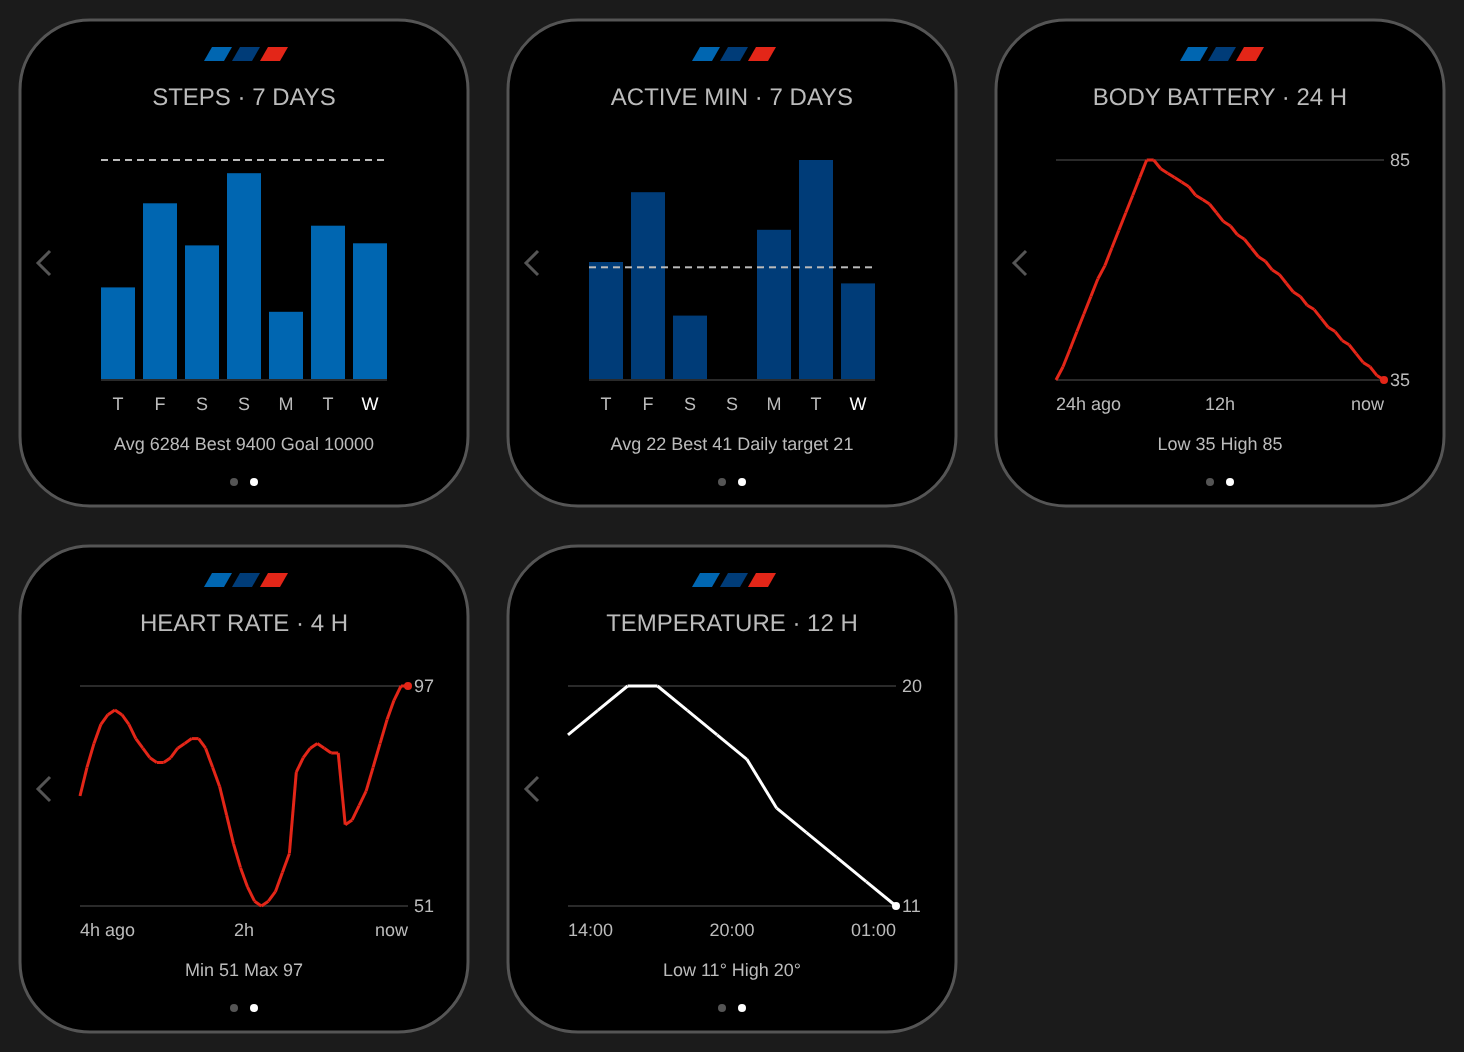
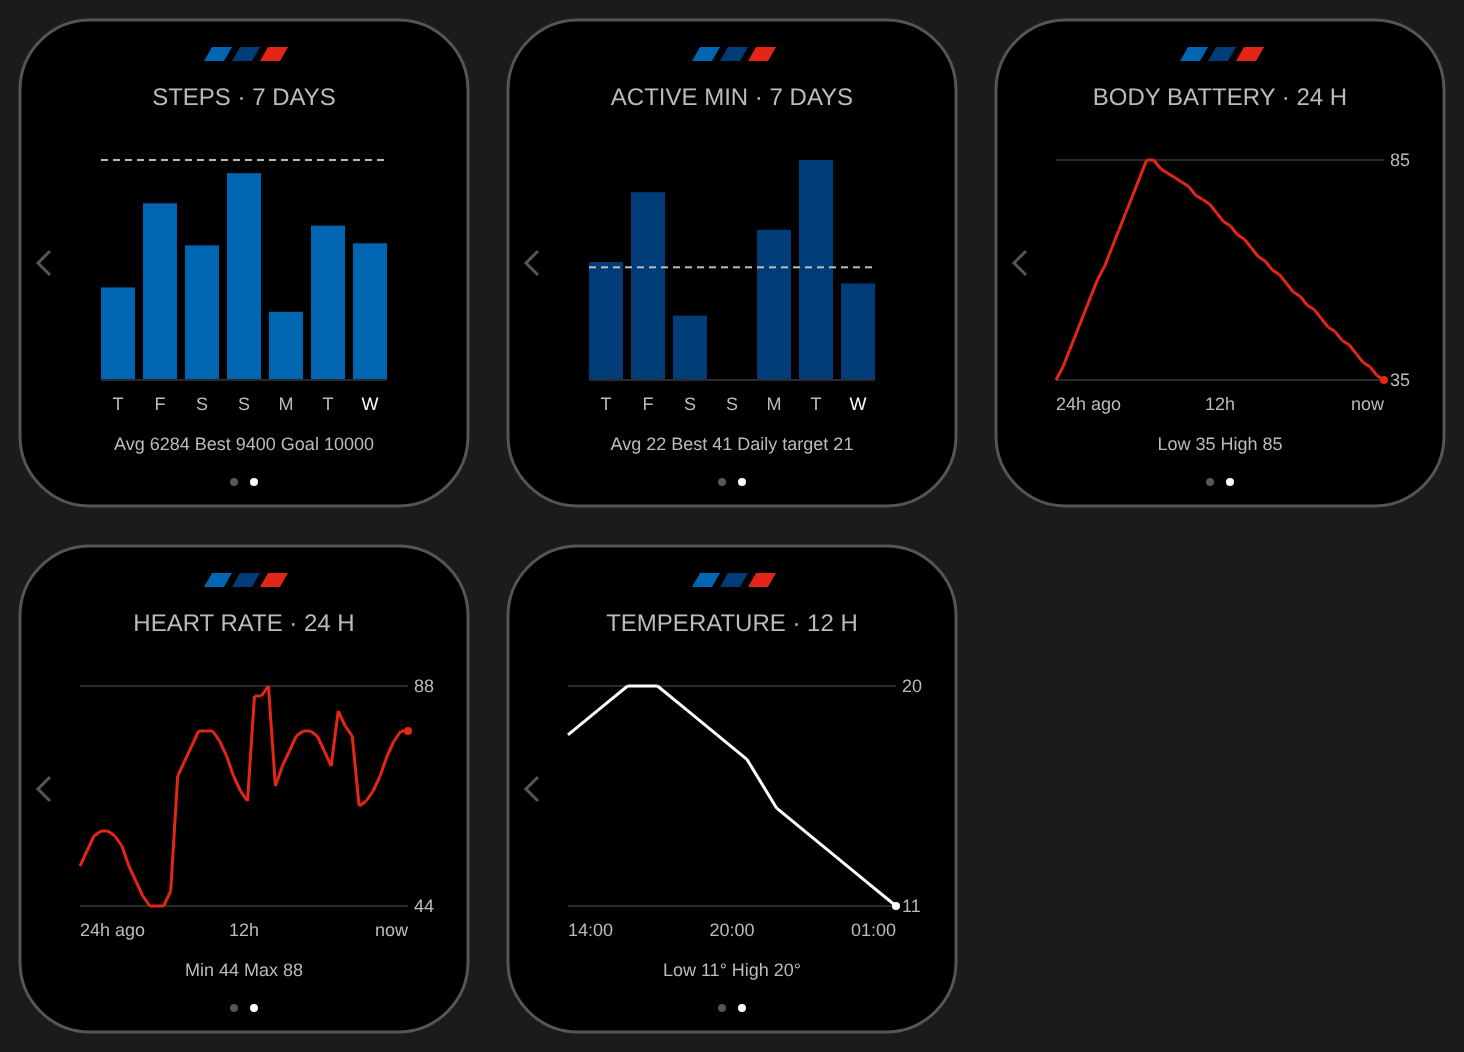
Heart rate graph over 24 hours; robust step and active minutes history
Read heart rate from SensorHistory.getHeartRateHistory over 24 hours, bucketed
and averaged like body battery. Skip a getHistory() entry that starts today (the
docs say it is newest first with at most 7 entries) and take today from getInfo().
Confirmed against the Connect IQ API reference that ActivityMonitor.History has
activeMinutes. Update the graph mock-up and README to match.

Claude-Session: https://claude.ai/code/session_01CEiR5mX4CwQUtKoZKTxSUA

diff --git a/tools/wireframes.py b/tools/wireframes.py
@@ -403,7 +403,9 @@ def graphs():
     active = [22, 35, 12, 0, 28, 41, 18]
     body = [max(5, int(35 + i / 13 * 50) if i < 14 else int(85 - (i - 14) * 1.2) if i < 22 else int(75 - (i - 22) * 1.6))
             for i in range(48)]
-    hr = [int(74 + 16 * math.sin(i / 6.0) + 8 * math.sin(i / 2.3) + (14 if 30 < i < 38 else 0)) for i in range(48)]
+    # 24 h of heart rate: low overnight, a morning bump and an afternoon walk
+    hr = [int((52 if i < 14 else 72) + (8 * math.sin(i / 2.3)) + (22 if 24 < i < 28 else 0)
+              + (14 if 36 < i < 40 else 0)) for i in range(48)]
     temp = [18, 19, 20, 20, 19, 18, 17, 15, 14, 13, 12, 11]
 
     graph_page(s, 0, 0, "STEPS · 7 DAYS", "Avg 6284   Best 9400   Goal 10000",
@@ -412,8 +414,8 @@ def graphs():
                lambda: bar_chart(s, active, 21, NAVY, days))
     graph_page(s, px * 2, 0, "BODY BATTERY · 24 H", "Low %d   High %d" % (min(body), max(body)),
                lambda: line_chart(s, body, RED, ["24h ago", "12h", "now"]))
-    graph_page(s, 0, py, "HEART RATE · 4 H", "Min %d   Max %d" % (min(hr), max(hr)),
-               lambda: line_chart(s, hr, RED, ["4h ago", "2h", "now"]))
+    graph_page(s, 0, py, "HEART RATE · 24 H", "Min %d   Max %d" % (min(hr), max(hr)),
+               lambda: line_chart(s, hr, RED, ["24h ago", "12h", "now"]))
     graph_page(s, px, py, "TEMPERATURE · 12 H", "Low 11&#176;   High 20&#176;",
                lambda: line_chart(s, temp, WHITE, ["14:00", "20:00", "01:00"]))
     return s.doc(tw + 40, th + 40, "-20 -20 %d %d" % (tw + 40, th + 40))

diff --git a/README.md b/README.md
@@ -40,7 +40,7 @@ simulator screenshots. They are generated from `source/Theme.mc` by
     humidity, next four hours)
 - Graph pages. Every metric page has a graph page behind it: steps and active
   minutes for the last 7 days (bars, with the goal line), body battery over 24 hours,
-  heart rate over the last 4 hours, and a 12 hour temperature forecast for weather.
+  heart rate over 24 hours, and a 12 hour temperature forecast for weather.
 - Navigation uses taps only, because a watch face does not receive swipes. Tap the
   right side of a page to go forward (detail, then graph) and the left side to go
   back. Chevrons at the edges and page dots at the bottom show what is possible.
@@ -157,12 +157,10 @@ Written without access to the Connect IQ SDK, so **it has not been compiled or
 run yet**. Expect a few compile fixes on the first build. In particular:
 
 - `WatchFaceDelegate.onPress` is used for taps; confirm it fires on the Venu X1.
-- Graph data: `ActivityMonitor.getHistory()` is assumed to be newest-first and to exclude
-  today (today is added from `getInfo()`). Daily active minutes in the history is
-  assumed to be `history.activeMinutes.total`. Body battery and heart rate history
-  length depends on the watch.
-- Weather `CONDITION_*` names in `BmwMDetail.mc` should be checked against the SDK.
-- Layout positions come from a wireframe, not the simulator.
+- Graph data: today's entry is skipped if `ActivityMonitor.getHistory()` includes it
+  (the docs say it is newest first, at most 7 entries) and taken from `getInfo()`. Body
+  battery and heart rate come from `SensorHistory`; heart rate history only goes back to
+  the last power cycle, so a restarted watch shows a gap at the left of the graph.
 
 ## Trademarks
 
